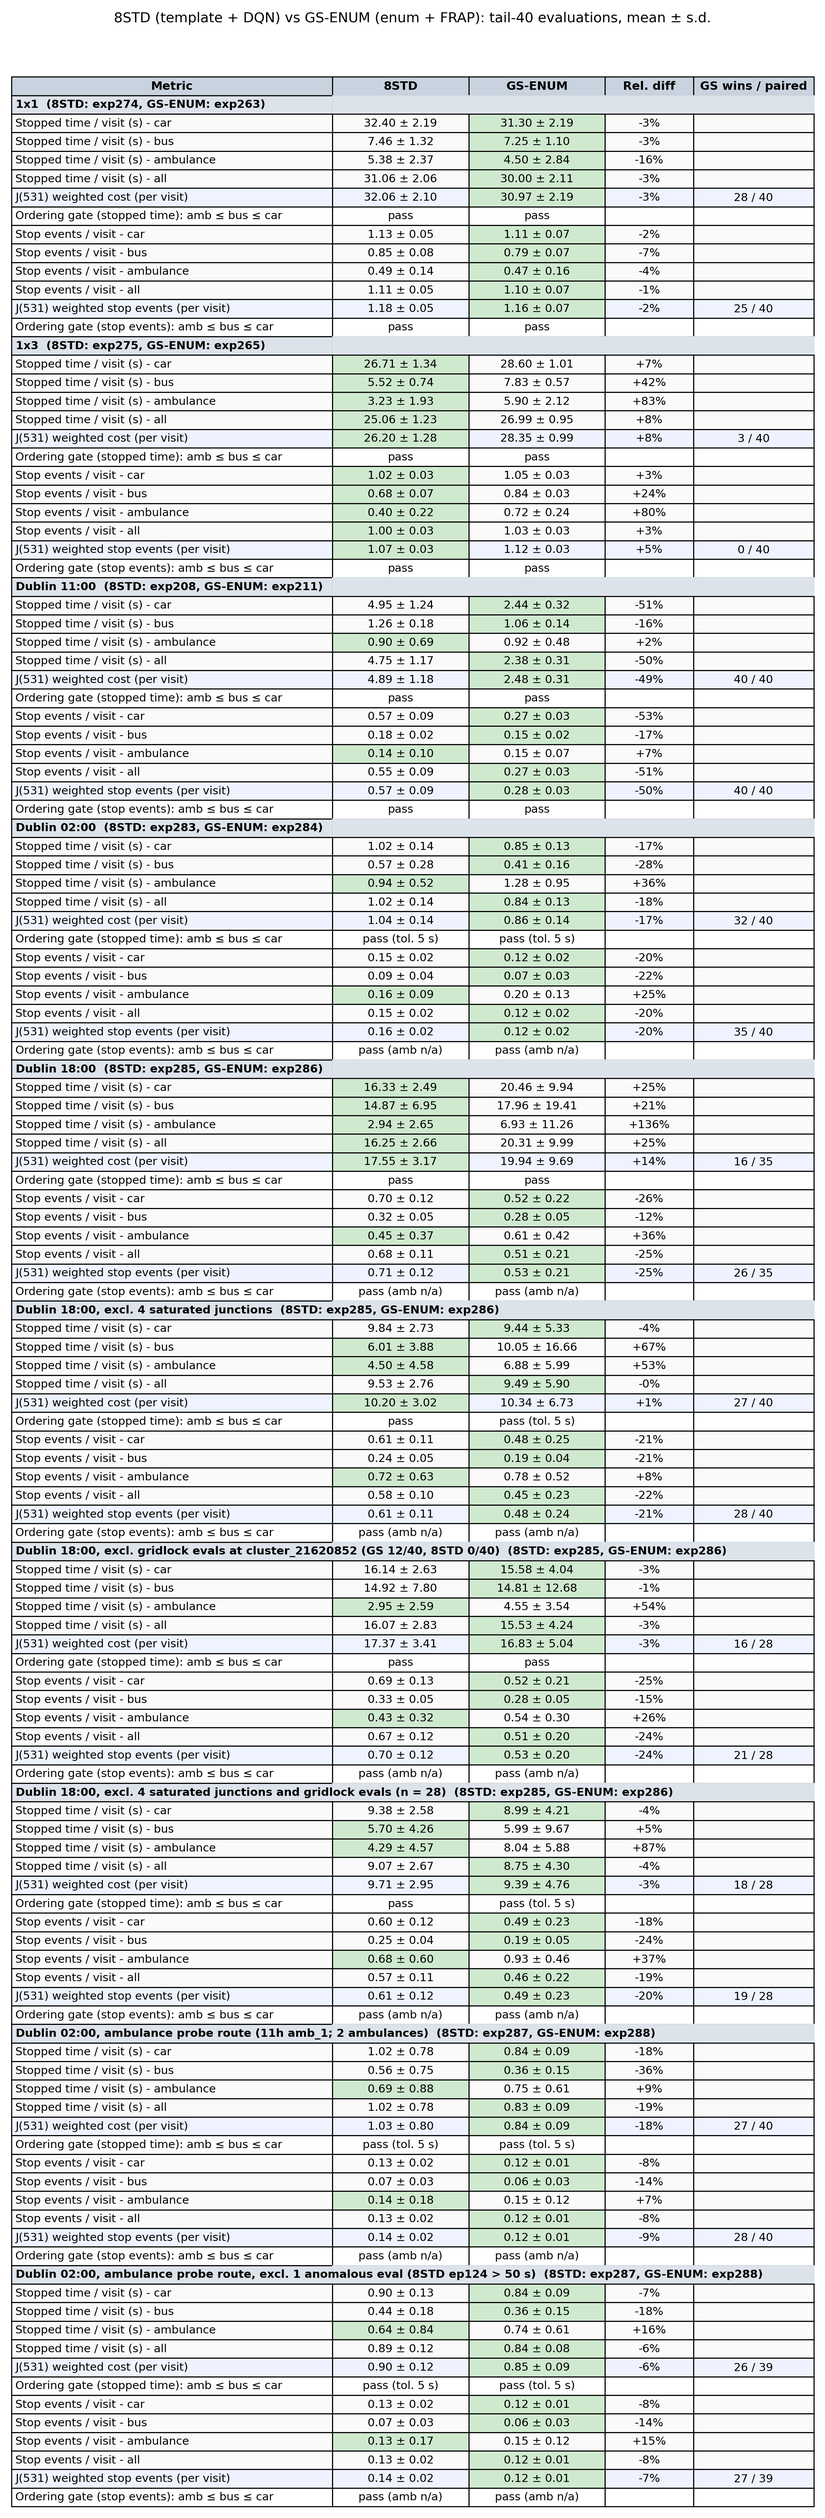
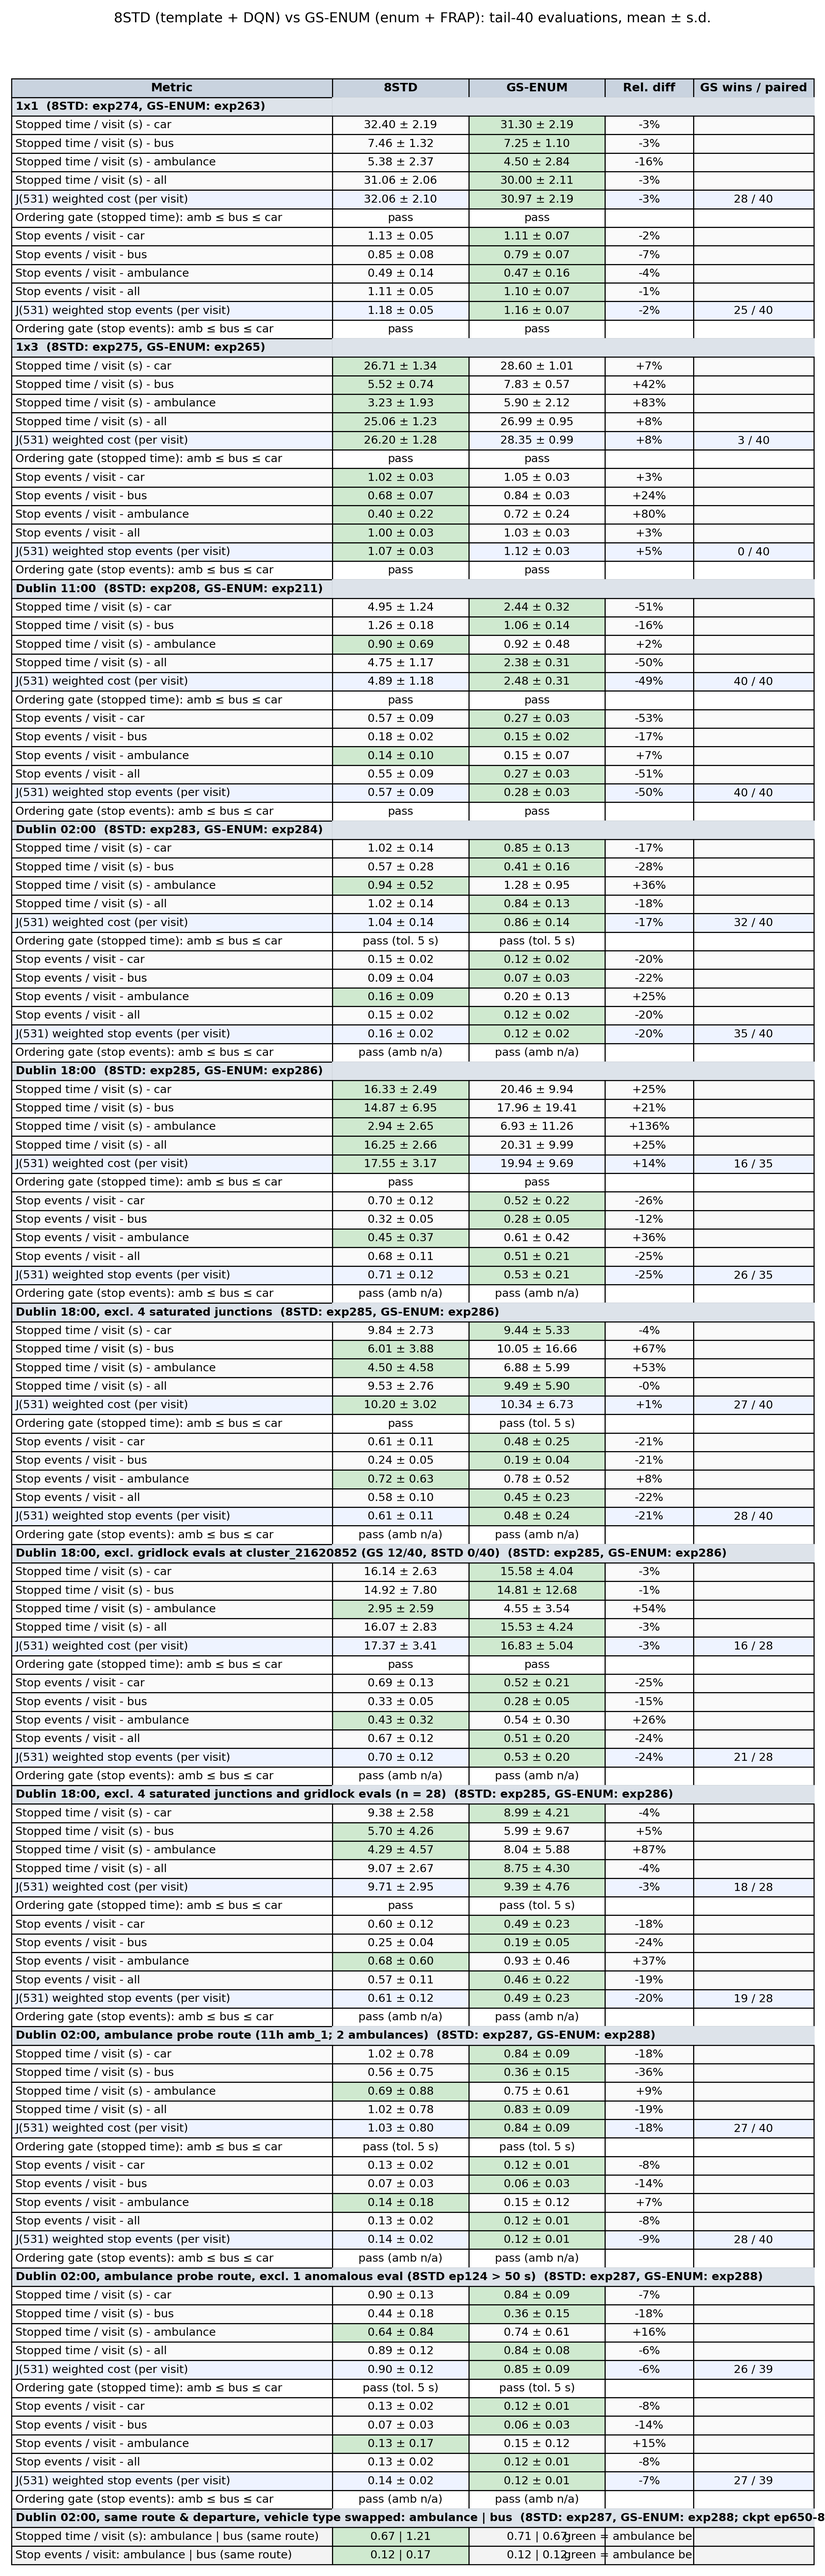
02h 同路线换车型探针 (用户令, 评估专用): busprobe_weekday_02h_probe11h.rou.xml = 探针两辆车改 bus 车型; eval_pervehicle 加 --routes/--tag; 在 exp287/288 ep650-800 检查点上各 8 车次: 停车时间/visit 救护车|公交 8STD 0.67|1.21, GS 0.71|0.67; 停车次数/visit 0.125|0.167, 0.125|0.125 → 8STD 略偏向救护车, GS 无区别 (1 次停车事件量级); timeLoss 差异含车型动力学不归因信号 (文档 §7);

diff --git a/experiments/tools/figures/plot_pervehicle_table_2026-09-30.py b/experiments/tools/figures/plot_pervehicle_table_2026-09-30.py
@@ -93,6 +93,28 @@ def analyse(name, pair, share):
             if per and max(np.mean(x) for x in per.values())>100: grid+=1
         out["rows"][f"robust_{arm}"]=dict(completion=comp, gridlock=grid, K=K)
     return out
+
+def typeswap_block():
+    """Dublin 02:00 探针路线: 同两辆车分别作为 ambulance (原探针评估) 与 bus (_busprobe 评估), 各臂末 4 检查点。"""
+    J=["26165126","cluster_1448439_2464758361","1448436"]; out={}
+    for e in ("287","288"):
+        fs=sorted(f for f in glob.glob(f"{D}/exp{e}_ep*_seed123.json") if "busprobe" not in f)[-4:]
+        rows=[]
+        for f in fs:
+            g=f.replace("_seed123.json","_seed123_busprobe.json")
+            if not os.path.exists(g): continue
+            A=json.load(open(f))["vehicles"]; B=json.load(open(g))["vehicles"]
+            for amb_id,bus_id in (("amb_1_early","probe_bus_1_early"),("amb_1","probe_bus_1")):
+                if amb_id not in A or bus_id not in B: continue
+                def summ(v):
+                    st=sum(x["stopped"] for t in J for x in v["tls"].get(t,[])); ga=[x["entry_state"] in ("G","g") for t in J for x in v["tls"].get(t,[])]
+                    return dict(st=st, ga=np.mean(ga) if ga else np.nan, tl=v["trip"]["timeLoss"], dur=v["trip"]["duration"])
+                rows.append((summ(A[amb_id]), summ(B[bus_id])))
+        if rows:
+            out[e]=dict(n=len(rows), stops=(np.mean([r[0]["st"] for r in rows]), np.mean([r[1]["st"] for r in rows])), nostop=(np.mean([r[0]["st"]==0 for r in rows]), np.mean([r[1]["st"]==0 for r in rows])),
+                        green=(np.nanmean([r[0]["ga"] for r in rows]), np.nanmean([r[1]["ga"] for r in rows])), tl=(np.mean([r[0]["tl"] for r in rows]), np.mean([r[1]["tl"] for r in rows])), dur=(np.mean([r[0]["dur"] for r in rows]), np.mean([r[1]["dur"] for r in rows])))
+    return out
+
 def fmt(x,d=2): return "n/a" if x is None or (isinstance(x,float) and np.isnan(x)) else f"{x:.{d}f}"
 def render(results, out_png):
     GREEN="#cfe9cf"; cells=[]; colors=[]; hdr=[]; titles=[]
@@ -127,6 +149,14 @@ def render(results, out_png):
         a,b=rows["robust_std"],rows["robust_gs"]
         cells.append(["Completion rate (arrived before episode end)", fmt(a["completion"],3), fmt(b["completion"],3), "", ""]); colors.append(["#ffffff"]*5)
         cells.append([f"Gridlock checkpoints (any junction mean stop > 100 s) / {a['K']}", str(a["gridlock"]), str(b["gridlock"]), "", ""]); colors.append(["#ffffff"]*5)
+    TS=json.load(open("experiments/analysis/data/typeswap_02h_pervisit_2026-09-30.json")) if os.path.exists("experiments/analysis/data/typeswap_02h_pervisit_2026-09-30.json") else {}
+    if "8STD" in TS and "GS" in TS:
+        hdr.append(len(cells)+1); titles.append(f"Dublin 02:00, same route & departure, vehicle type swapped: ambulance | bus  (8STD: exp287, GS-ENUM: exp288; {TS['8STD']['n']} runs/arm, evaluation-only, 1 s resolution)"); cells.append(["","","","",""]); colors.append(["#dde3ea"]*5)
+        for key,lab in (("pv","Stopped time / visit (s): ambulance | bus (same route)"),("ev","Stop events / visit: ambulance | bus (same route)")):
+            a,b=TS["8STD"][key],TS["GS"][key]; col=["#f3f3f3"]*5
+            for i_,v in ((1,a),(2,b)):
+                if v[0]<v[1]: col[i_]=GREEN
+            cells.append([lab, f"{a[0]:.2f} | {a[1]:.2f}", f"{b[0]:.2f} | {b[1]:.2f}", "green = ambulance below bus", ""]); colors.append(col)
     fig,ax=plt.subplots(figsize=(16.5,0.3*len(cells)+2)); ax.axis("off")
     tbl=ax.table(cellText=cells,colLabels=["Metric","8STD","GS-ENUM","GS − 8STD [95% CI] / rel. diff","GS better (ties), Wilcoxon p"],cellColours=colors,colColours=["#c9d3df"]*5,loc="upper center",cellLoc="center",colWidths=[0.40,0.11,0.11,0.19,0.19])
     tbl.auto_set_font_size(False); tbl.scale(1,1.45)

diff --git a/experiments/tools/figures/plot_main_table_en_2026-09-22.py b/experiments/tools/figures/plot_main_table_en_2026-09-22.py
@@ -52,7 +52,18 @@ for scen,d,wins in S:
         am,bu,ca=ev["ev_amb"][i][0],ev["ev_bus"][i][0],ev["ev_car"][i][0]
         ge.append(("pass (amb n/a)" if bu<=ca else "fail (amb n/a)") if amb_na else gate(am,bu,ca))
     cells.append(["Ordering gate (stop events): amb ≤ bus ≤ car",ge[0],ge[1],"",""]); colors.append(["#ffffff"]*5)
-fig,ax=plt.subplots(figsize=(13.5,41)); ax.axis("off")
+
+# ── 附加块 (2026-09-30 用户令): 同路线同时刻换车型 (评估专用, 现有检查点 ep650-800, 每臂 8 车次): 救护车 vs 公交, 只有车型不同 ──
+import json as _json
+TS=_json.load(open("experiments/analysis/data/typeswap_02h_pervisit_2026-09-30.json"))
+hdr.append(len(cells)+1); cells.append(["","","","",""]); colors.append(["#dde3ea"]*5)
+TSWAP_TITLE=f"Dublin 02:00, same route & departure, vehicle type swapped: ambulance | bus  (8STD: exp287, GS-ENUM: exp288; ckpt ep650-800, {TS['8STD']['n']} runs/arm, 1 s resolution)"
+for key,lab in (("pv","Stopped time / visit (s): ambulance | bus (same route)"),("ev","Stop events / visit: ambulance | bus (same route)")):
+    a,b=TS["8STD"][key],TS["GS"][key]; col=["#f3f3f3"]*5
+    for i_,v in ((1,a),(2,b)):
+        if v[0]<v[1]: col[i_]=GREEN
+    cells.append([lab, f"{a[0]:.2f} | {a[1]:.2f}", f"{b[0]:.2f} | {b[1]:.2f}", "green = ambulance below bus", ""]); colors.append(col)
+fig,ax=plt.subplots(figsize=(13.5,42.5)); ax.axis("off")
 tbl=ax.table(cellText=cells,colLabels=["Metric","8STD","GS-ENUM","Rel. diff","GS wins / paired"],cellColours=colors,colColours=["#c9d3df"]*5,loc="upper center",cellLoc="center",colWidths=[0.40,0.17,0.17,0.11,0.15])
 tbl.auto_set_font_size(False); tbl.scale(1,1.45)
 for (r,c),cell in tbl.get_celld().items():
@@ -64,7 +75,7 @@ for (r,c),cell in tbl.get_celld().items():
         if c>0: cell.set_edgecolor("#dde3ea")
 ax.set_title("8STD (template + DQN) vs GS-ENUM (enum + FRAP): tail-40 evaluations, mean ± s.d.",fontsize=13,pad=6)
 fig.canvas.draw(); ren=fig.canvas.get_renderer(); inv=fig.transFigure.inverted()
-for r,(scen,_,_) in zip(hdr,S):   # 块标题跨列叠加, 不受相邻单元格遮挡
+for r,scen in zip(hdr,[x[0] for x in S]+[TSWAP_TITLE]):   # 块标题跨列叠加, 不受相邻单元格遮挡
     bb=tbl[r,0].get_window_extent(ren); x0,y0=inv.transform((bb.x0,bb.y0)); x1,y1=inv.transform((bb.x1,bb.y1))
     fig.text(x0+0.004, (y0+y1)/2, scen, ha="left", va="center", fontsize=10.5, weight="bold", zorder=10)
 from matplotlib.transforms import Bbox

diff --git a/experiments/tools/dublin/eval_pervehicle.py b/experiments/tools/dublin/eval_pervehicle.py
@@ -10,10 +10,10 @@ import numpy as np
 import ckpt_env
 
 def main():
-    ap = argparse.ArgumentParser(); ap.add_argument("exp"); ap.add_argument("--ckpt"); ap.add_argument("--seed", type=int); ap.add_argument("--out", default="analysis/data/pervehicle")
+    ap = argparse.ArgumentParser(); ap.add_argument("exp"); ap.add_argument("--ckpt"); ap.add_argument("--seed", type=int); ap.add_argument("--out", default="analysis/data/pervehicle"); ap.add_argument("--routes", help="评估专用路由文件 (逗号分隔), 覆盖配置的 route_file"); ap.add_argument("--tag", default="", help="输出文件名后缀")
     a = ap.parse_args()
     tmp = os.path.abspath(os.path.join(os.path.dirname(__file__), "..", "..", "..", "experiments", f"logs/tripinfo_tmp_exp{a.exp}_{os.getpid()}.xml"))
-    B = ckpt_env.build(a.exp, a.ckpt, a.seed, extra_sumo=f"--tripinfo-output {tmp} --tripinfo-output.write-unfinished true")
+    B = ckpt_env.build(a.exp, a.ckpt, a.seed, extra_sumo=f"--tripinfo-output {tmp} --tripinfo-output.write-unfinished true", route_override=a.routes)
     env, act, states = B["env"], B["act"], B["states"]; sumo = env.sumo
     print(f"[pervehicle] exp{a.exp} {B['kind']} ckpt ep{B['ckpt_episode']} seed {B['seed']} n_ts {len(env.ts_ids)}")
     lanes = {t: [l for l in dict.fromkeys(sumo.trafficlight.getControlledLanes(t))] for t in env.ts_ids}
@@ -60,7 +60,7 @@ def main():
         os.remove(tmp)
     for vid, v in veh.items():
         v["trip"] = trip.get(vid)
-    out = dict(exp=a.exp, kind=B["kind"], ckpt=B["ckpt"], ckpt_episode=B["ckpt_episode"], seed=B["seed"], cfg=B["cfg_path"], n_tripinfo=len(trip), n_vehicles=len(veh), vehicles=veh)
-    os.makedirs(a.out, exist_ok=True); path = os.path.join(a.out, f"exp{a.exp}_ep{B['ckpt_episode']:05d}_seed{B['seed']}.json")
+    out = dict(exp=a.exp, routes=a.routes, kind=B["kind"], ckpt=B["ckpt"], ckpt_episode=B["ckpt_episode"], seed=B["seed"], cfg=B["cfg_path"], n_tripinfo=len(trip), n_vehicles=len(veh), vehicles=veh)
+    os.makedirs(a.out, exist_ok=True); path = os.path.join(a.out, f"exp{a.exp}_ep{B['ckpt_episode']:05d}_seed{B['seed']}{a.tag}.json")
     json.dump(out, open(path, "w")); print("saved", path, "| vehicles", len(veh), "tripinfo", len(trip))
 if __name__ == "__main__": main()

diff --git a/experiments/tools/dublin/ckpt_env.py b/experiments/tools/dublin/ckpt_env.py
@@ -21,8 +21,8 @@ def list_ckpts(cfg):
         if ep not in best or os.path.getmtime(p) > os.path.getmtime(best[ep]): best[ep] = p
     return [best[k] for k in sorted(best)]
 
-def build(exp, ckpt=None, seed=None, extra_sumo=None):
-    """返回 dict(env, act, states, cfg, ckpt, kind, agent, phase_label)。act(ts, state) -> (env 动作, 内部动作序号, Q 向量)。"""
+def build(exp, ckpt=None, seed=None, extra_sumo=None, route_override=None):
+    """返回 dict(env, act, states, cfg, ckpt, kind, agent)。route_override: 评估专用路由文件列表 (逗号分隔, 相对 experiments/), 只换车不换控制器。act(ts, state) -> (env 动作, 内部动作序号, Q 向量)。"""
     if ckpt: ckpt = os.path.abspath(ckpt)
     cfg_path = find_cfg(exp); cfg = yaml.safe_load(open(cfg_path))
     from sumo_rl.environment.env import SumoEnvironment
@@ -42,7 +42,7 @@ def build(exp, ckpt=None, seed=None, extra_sumo=None):
     assert cfg["observation_class"] == "PriorityMovement", cfg["observation_class"]
     obs_class = functools.partial(obsmod.PriorityMovementObservationFunction, **kw)
     reward_fn = make_priority_avg_waiting_reward(load_priority_table(cfg.get("priority_source")))
-    env = SumoEnvironment(net_file=cfg["net_file"], route_file=cfg["route_file"], cfg_file=cfg["cfg_file"], out_csv_name=None,
+    env = SumoEnvironment(net_file=cfg["net_file"], route_file=(route_override or cfg["route_file"]), cfg_file=cfg["cfg_file"], out_csv_name=None,
         use_gui=False, num_seconds=cfg.get("num_seconds", 1000), min_green=cfg.get("min_green", 5), max_green=cfg.get("max_green", 50),
         use_max_green=cfg.get("use_max_green", False), single_agent=False, yellow_time=cfg.get("yellow_time", 2),
         delta_time=cfg.get("delta_time", 5), reward_fn=reward_fn, observation_class=obs_class, sumo_seed=cfg.get("seed", 0),
